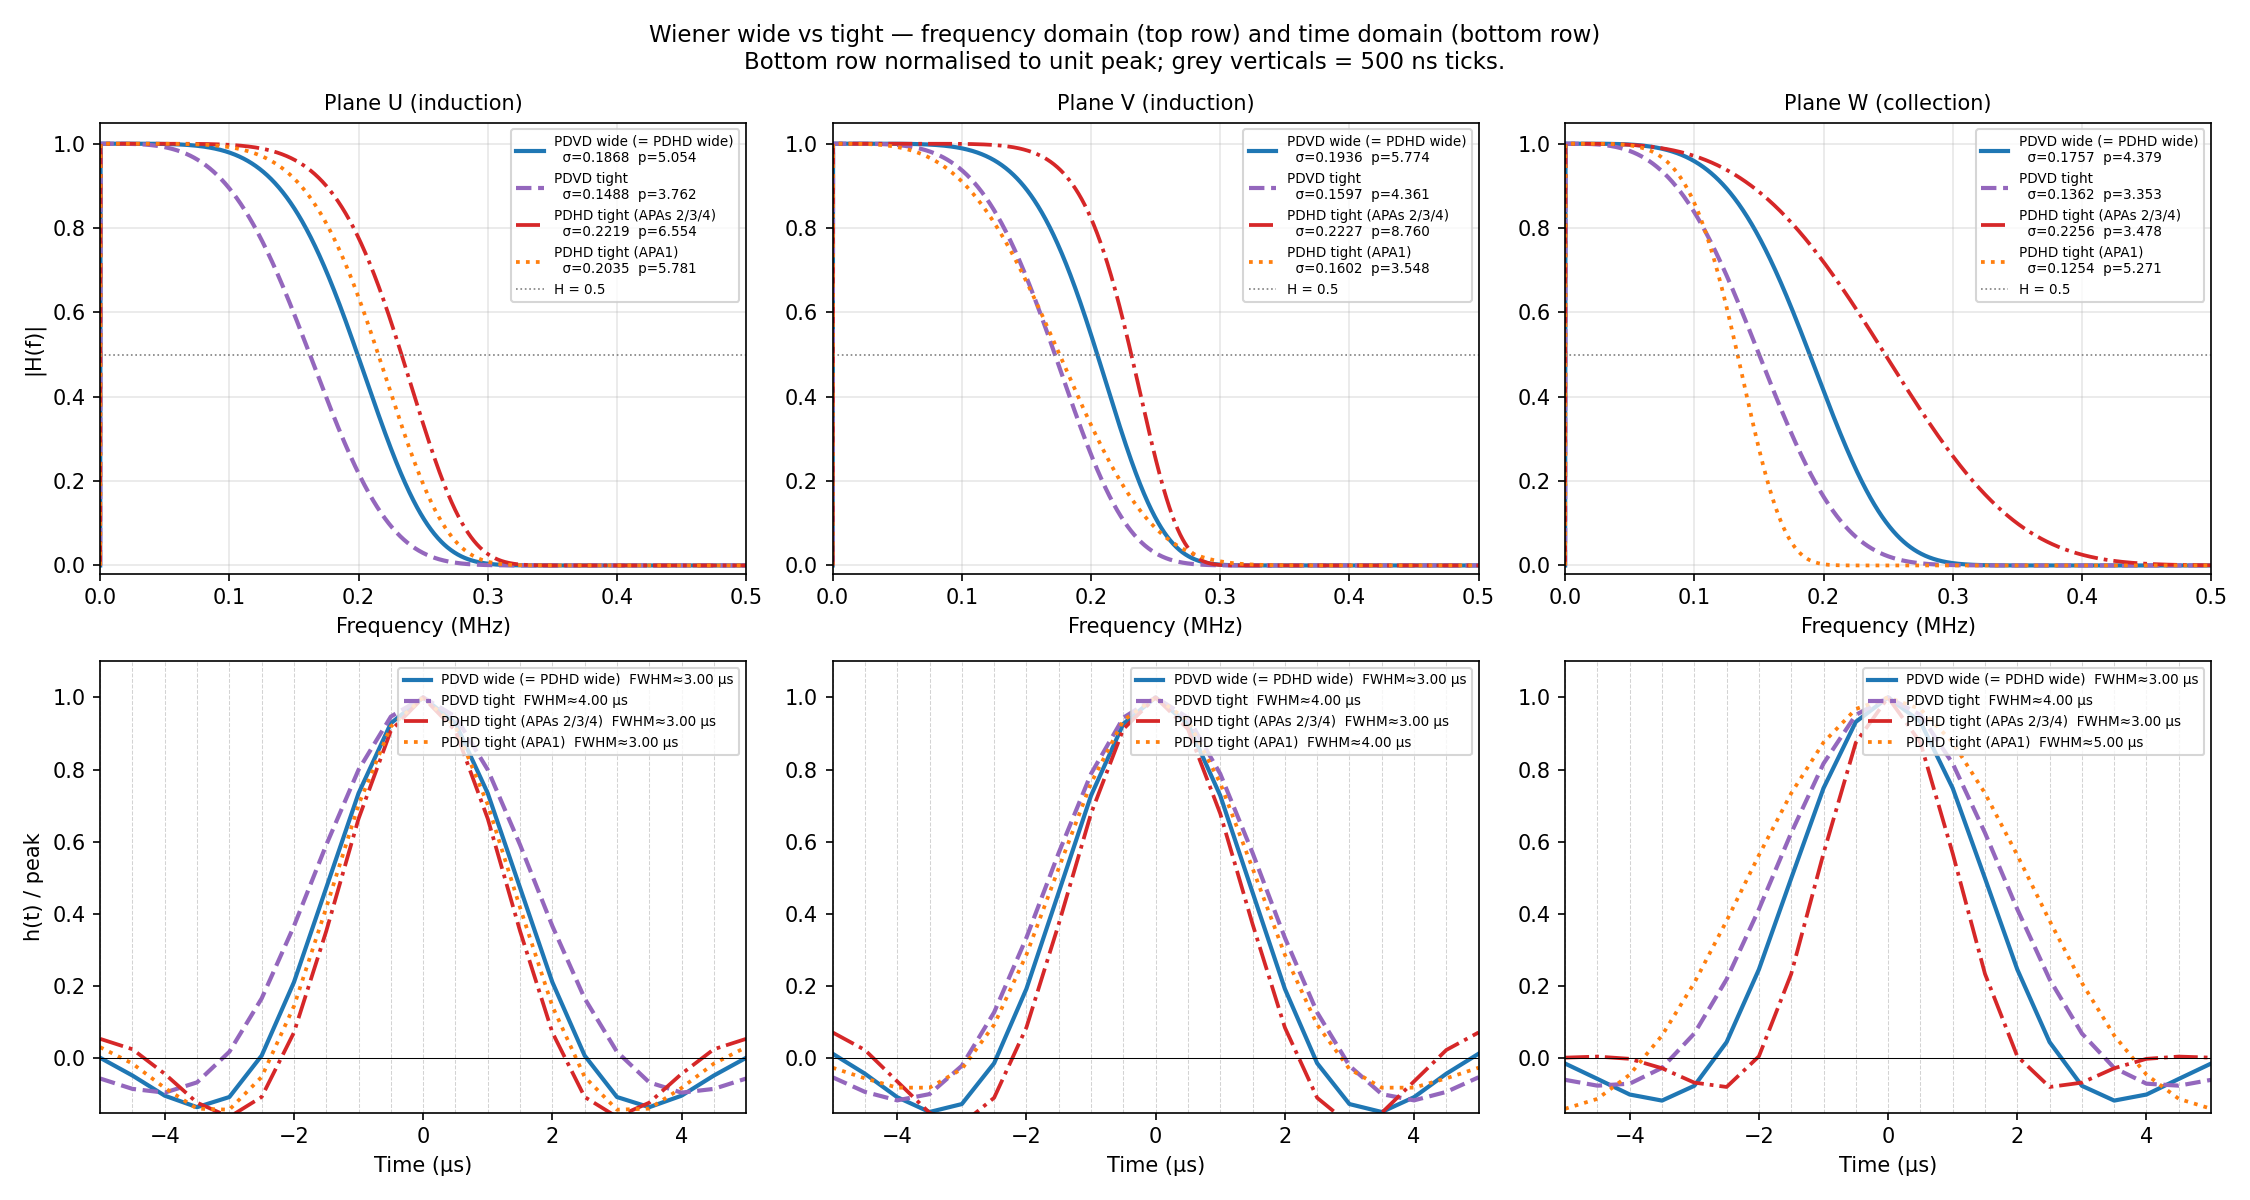
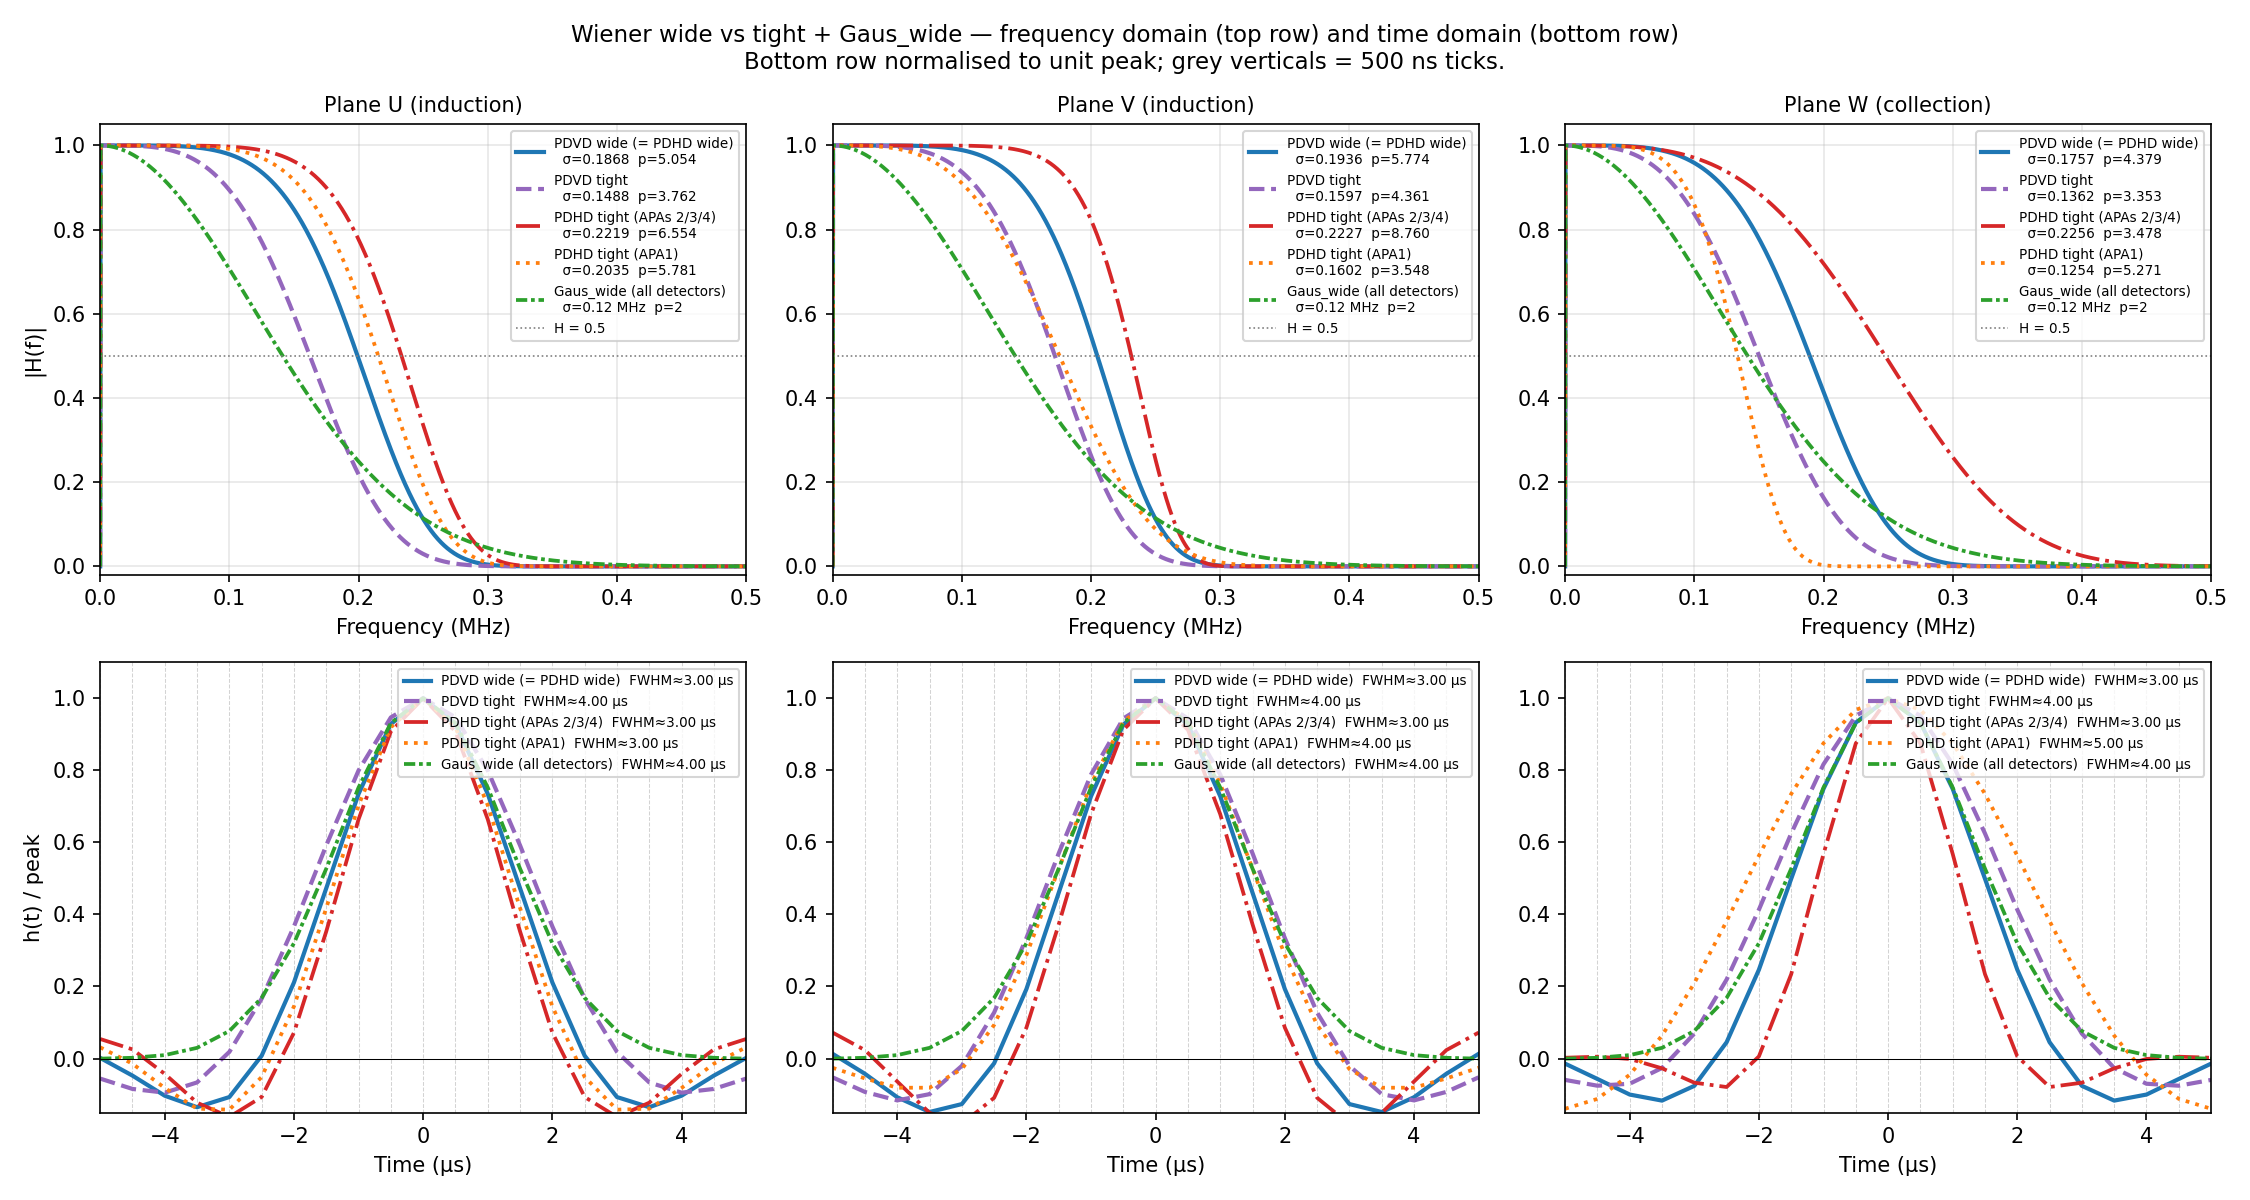
pdvd/sp_plot: add Gaus_wide curve to Wiener wide-vs-tight comparison plot
compare_wiener_wide_vs_tight.png now overlays Gaus_wide (σ=0.12 MHz, p=2,
identical for all detectors) as a green dash-dot line alongside the four
Wiener curves.  The Gaussian rolls off earlier in frequency and has the
broadest time-domain kernel (~4 µs FWHM), making the contrast with the
super-Gaussian Wiener shapes directly visible.

diff --git a/pdvd/sp_plot/compare_sp_filters.py b/pdvd/sp_plot/compare_sp_filters.py
@@ -250,10 +250,12 @@ def make_plot3():
     WINDOW_US = 5.0
     fig, axes = plt.subplots(2, 3, figsize=(15, 8))
     fig.suptitle(
-        'Wiener wide vs tight — frequency domain (top row) and time domain (bottom row)\n'
+        'Wiener wide vs tight + Gaus_wide — frequency domain (top row) and time domain (bottom row)\n'
         'Bottom row normalised to unit peak; grey verticals = 500 ns ticks.',
         fontsize=11,
     )
+
+    C_GAUS = '#2ca02c'   # green for Gaussian
 
     curves_defs = [
         ('PDVD wide (= PDHD wide)', PDVD_WIENER_WIDE,              C_PDVD,  '-',   2.0),
@@ -261,6 +263,15 @@ def make_plot3():
         ('PDHD tight (APAs 2/3/4)', PDHD_WIENER_TIGHT_DEFAULT,     C_PDHD,  '-.',  1.8),
         ('PDHD tight (APA1)',       PDHD_WIENER_TIGHT_APA1,        C_PDHD1, ':',   1.8),
     ]
+
+    # Gaussian is plane-independent — compute once outside the plane loop
+    gp = PDVD_GAUS_WIDE  # same for PDHD and PDVD top/bottom
+    freq_g, H_g = hf_pos_freq(N_TIME, MAX_FREQ_MHZ, gp['sigma'], gp['power'], True)
+    H_full_g = _hf_array(N_TIME, MAX_FREQ_MHZ, gp['sigma'], gp['power'], True)
+    t_g, h_g = iFFT_kernel(H_full_g, TICK_US)
+    fw_g = fwhm_of_kernel(h_g, TICK_US)
+    mask_g = np.abs(t_g) <= WINDOW_US
+    peak_g = h_g[mask_g].max()
 
     for col, (plane, plabel) in enumerate(zip(PLANES, PLANE_LABELS)):
         ax_f = axes[0, col]
@@ -280,6 +291,14 @@ def make_plot3():
             peak = h[mask].max()
             ax_t.plot(t[mask], h[mask] / peak, color=color, ls=ls, lw=lw,
                       label=f'{label}  FWHM≈{fw:.2f} µs')
+
+        # Gaussian — same curve on every plane panel
+        gaus_label_f = f'Gaus_wide (all detectors)\n  σ={gp["sigma"]:.2f} MHz  p={gp["power"]:.0f}'
+        gaus_label_t = f'Gaus_wide (all detectors)  FWHM≈{fw_g:.2f} µs'
+        ax_f.plot(freq_g, H_g, color=C_GAUS, ls=(0, (3, 1, 1, 1)), lw=1.8,
+                  label=gaus_label_f)
+        ax_t.plot(t_g[mask_g], h_g[mask_g] / peak_g, color=C_GAUS,
+                  ls=(0, (3, 1, 1, 1)), lw=1.8, label=gaus_label_t)
 
         # frequency panel
         ax_f.axhline(0.5, color='grey', lw=0.8, ls=':', label='H = 0.5')
